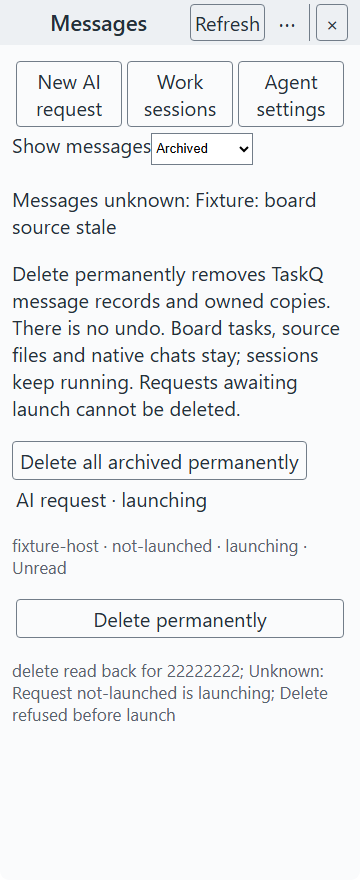
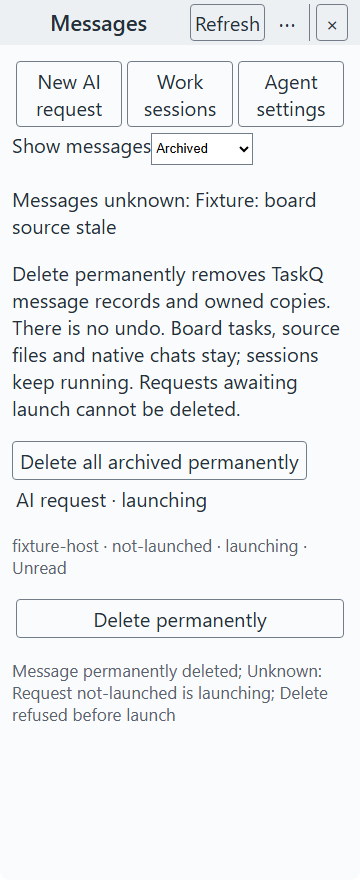
Finalize combined message evidence and native manifest
Task: https://github.com/taskqorg/taskq/issues/1467

Changed region(s): [[0.2139, 0.7364, 0.8861, 0.767], [0.0306, 0.7364, 0.1833, 0.767]]

diff --git a/docs/design/evidence/1467/README.md b/docs/design/evidence/1467/README.md
@@ -20,8 +20,9 @@ This candidate implements TW5–TW7 under the [owner's message-only answer](http
 - The first browser implementation could not dispatch Read because `crypto.randomUUID()` was unavailable in the renderer context. The existing `getRandomValues` pattern fixes it; the message browser instrument passes opening without resend, Back/filter restoration and archive/delete feedback.
 - Both safety-review regressions failed before their fixes: an existing `messages.tmp` hard link was accepted, and two archived states of one request produced a false unknown receipt. After: all eight message tests pass. Exclusive temporary-file creation preserves linked targets; one deletion result covers each selected alias.
 - The staged-history assertion also failed before deletion removed `setup/<id>.tmp`. After: the same test verifies the temporary brief copy is absent as well as the main record and folder.
+- R7 receipt wording: the browser assertion failed on `archive read back for 22222222`. After: the same assertion passes with `Message archived`; read/delete use plain action labels too, while per-item refusal reasons remain visible.
 - The publication budget test failed with two extra issue reads on the other host. Its shared `/nonexistent` installation allowed unrelated profile rows into the test. A unique temporary installation fixes the failure while retaining every exact read-count assertion. The focused test passes.
-- Before rebasing, the corrected full gate reported **sandbox-blocked**: 444 passed, 19 worker-authority failures, 35 ignored. After rebasing onto `ab52a687db2a69d4c4c7f20accd67be5a4430298` and its CoreQ dependency fix, `python3 scripts/check.py --base ab52a687db2a69d4c4c7f20accd67be5a4430298` took 325.094 s on this Windows GNU host: 444 passed, 20 failed, 35 ignored. Nineteen failures remain worker-authority refusals; the additional native pipe fixture timed out in the full run and passed alone on the same candidate. That full-run failure remains open. No worker identity or authority guard was removed. Merge-result CI remains required (R12, § 7).
+- Before rebasing, the corrected full gate reported **sandbox-blocked**: 444 passed, 19 worker-authority failures, 35 ignored. The final combined candidate rebases onto `7cc123790fd1fd5612a112fb05abe3c777840f09`, retaining the incoming CoreQ fix and shared task controls. `python3 scripts/check.py --base 7cc123790fd1fd5612a112fb05abe3c777840f09` took 68.453 s on this Windows GNU host: 444 passed, 20 failed, 35 ignored. Nineteen failures remain worker-authority refusals; `runtime::app_control::tests::cancellation_is_owner_bound_bounded_and_never_replays_work` failed with a native broken pipe. An earlier rebased full run timed out in the native pipe-bounds fixture, which passed alone. These full-run native failures remain open; no deadlines, assertions, worker identity or authority guards were weakened. Merge-result CI remains required (R12, § 7).
 - After rebase: all Node component/IPC checks, both affected browser instruments and screenshot/release-script checks pass. Integration: 18 passed, 1 ignored. Isolated offline selftest passes: 97 fold traces, formats and staged telemetry commit only; it reads no board and does not establish live board health.
 - Native Windows capture: the direct GNU executable invocation exited 127; running the same release through Cargo passes and preserves its build loader environment. `docs/shots/update.sh` now supports Windows paths/metadata and keeps Cargo's configured macOS signing runner. Rebased native captures passed on Windows; macOS was not rerun here. The separate Home capture uses invented source files, shows `Messages · 2`, and launches no session.
 
